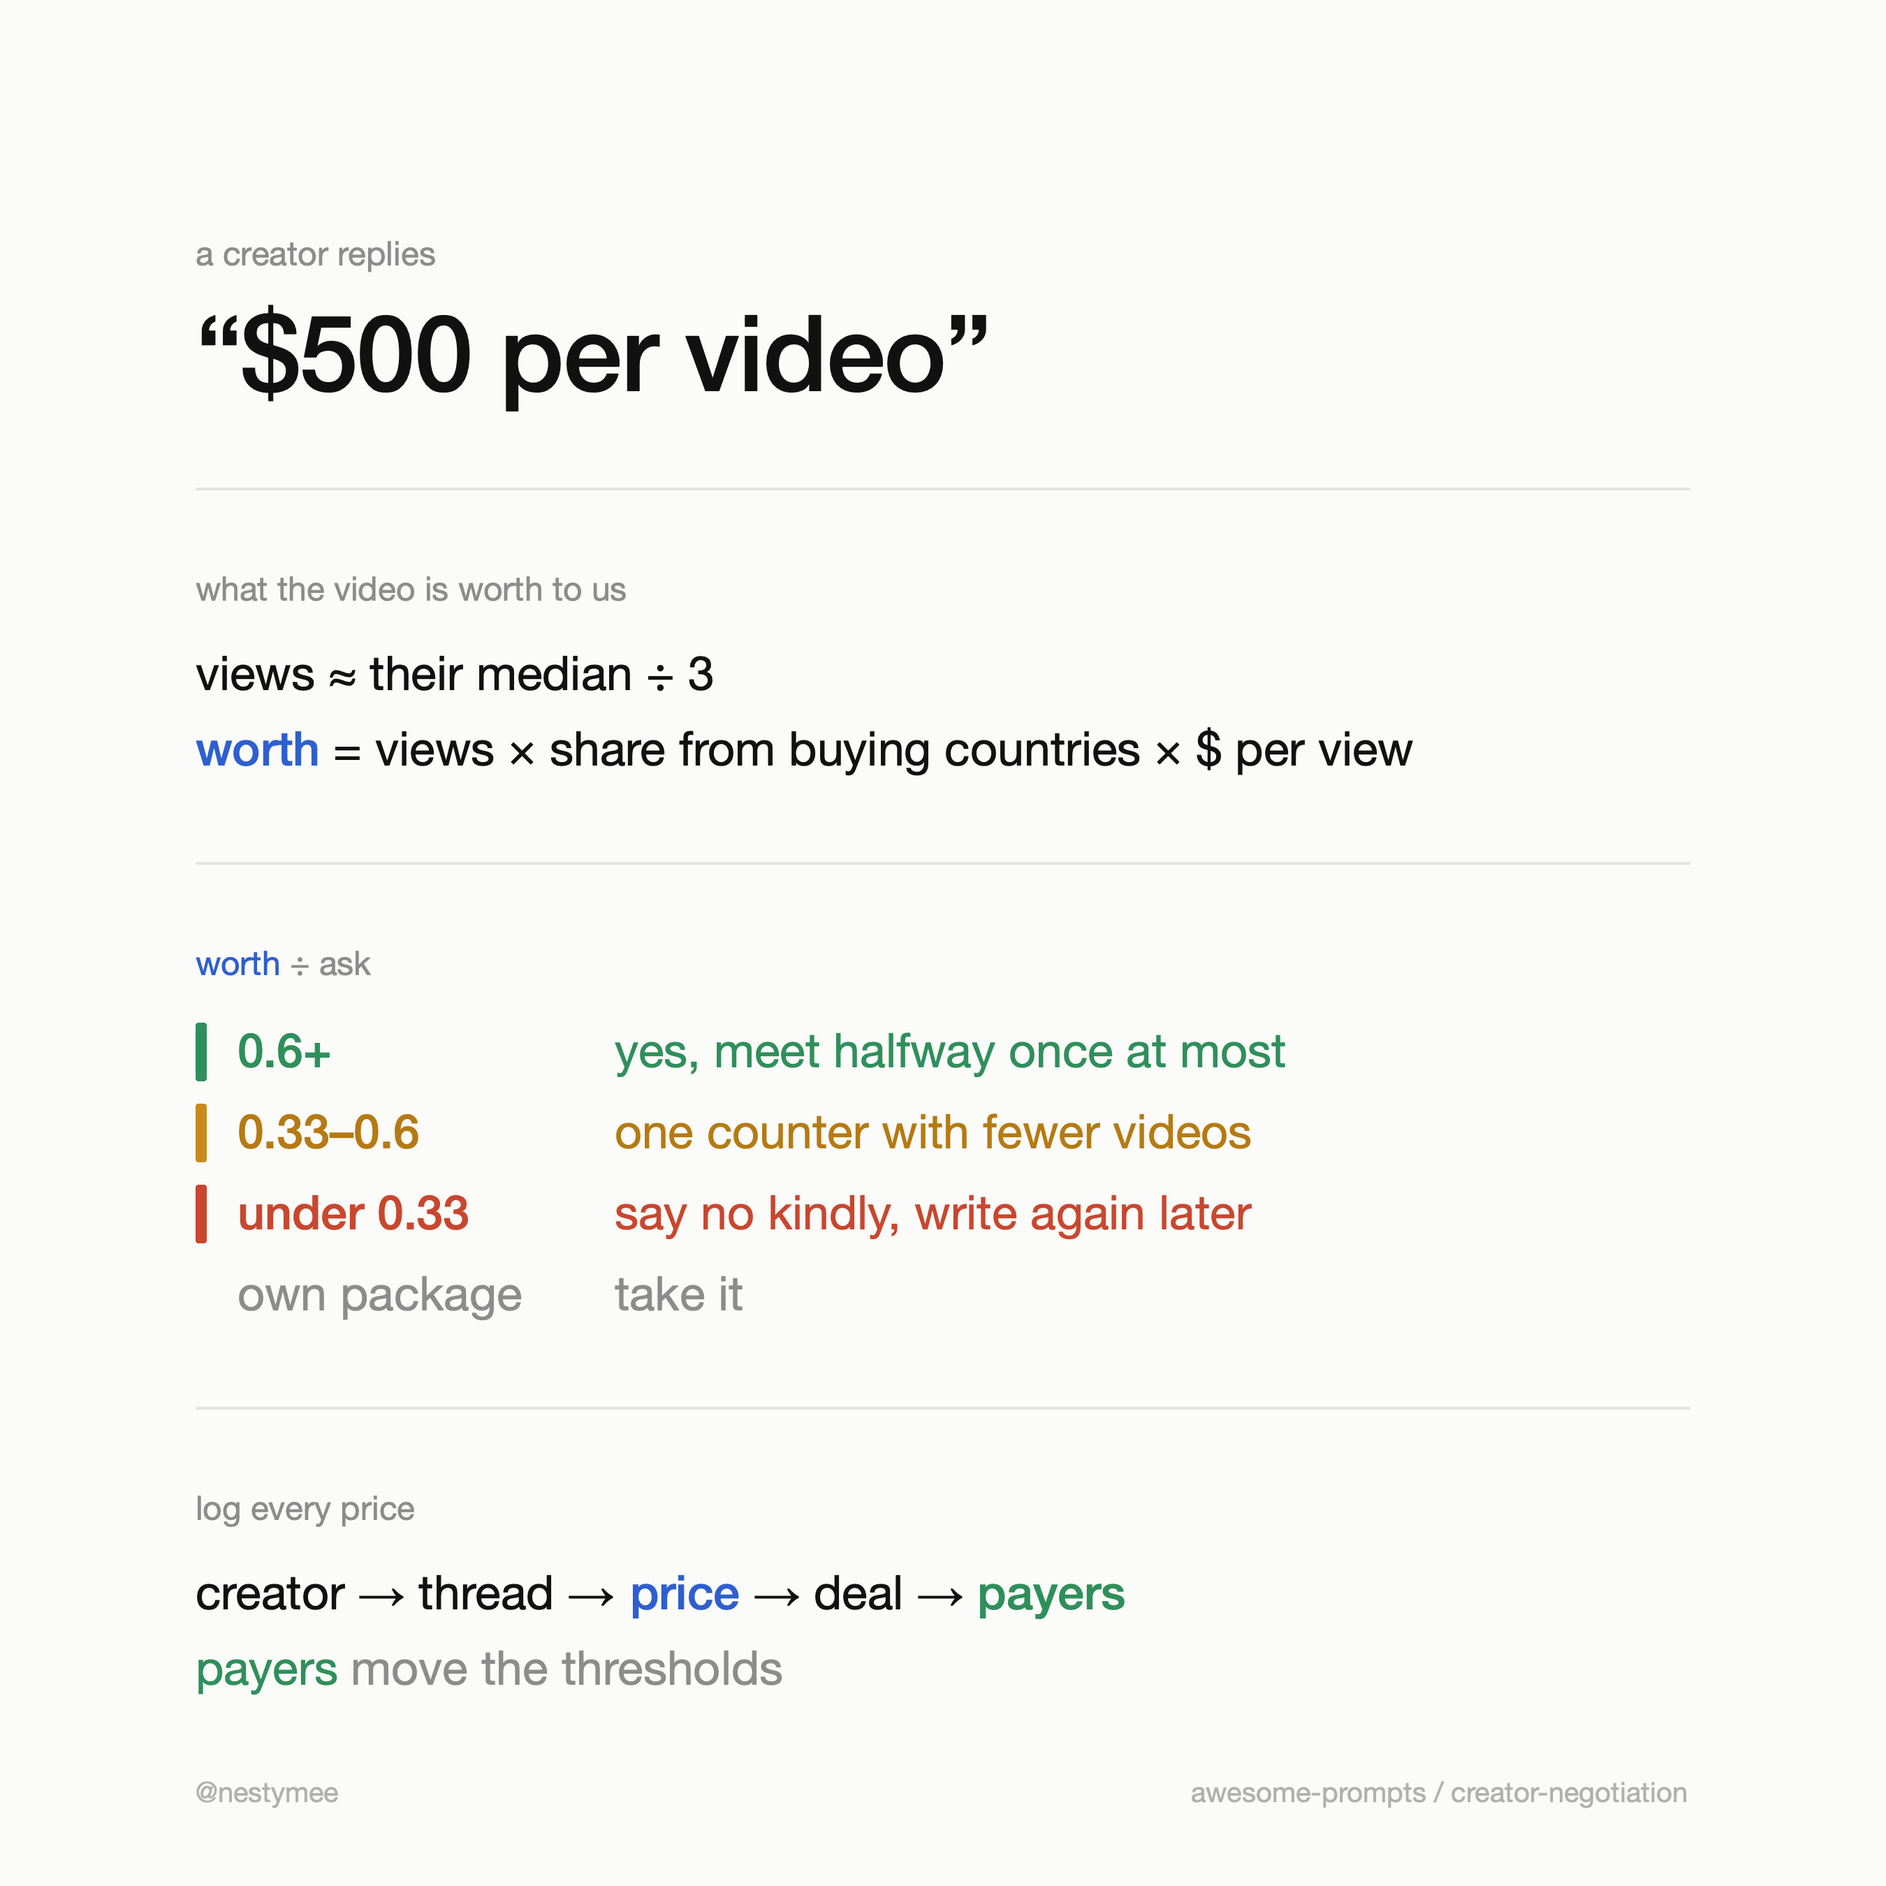
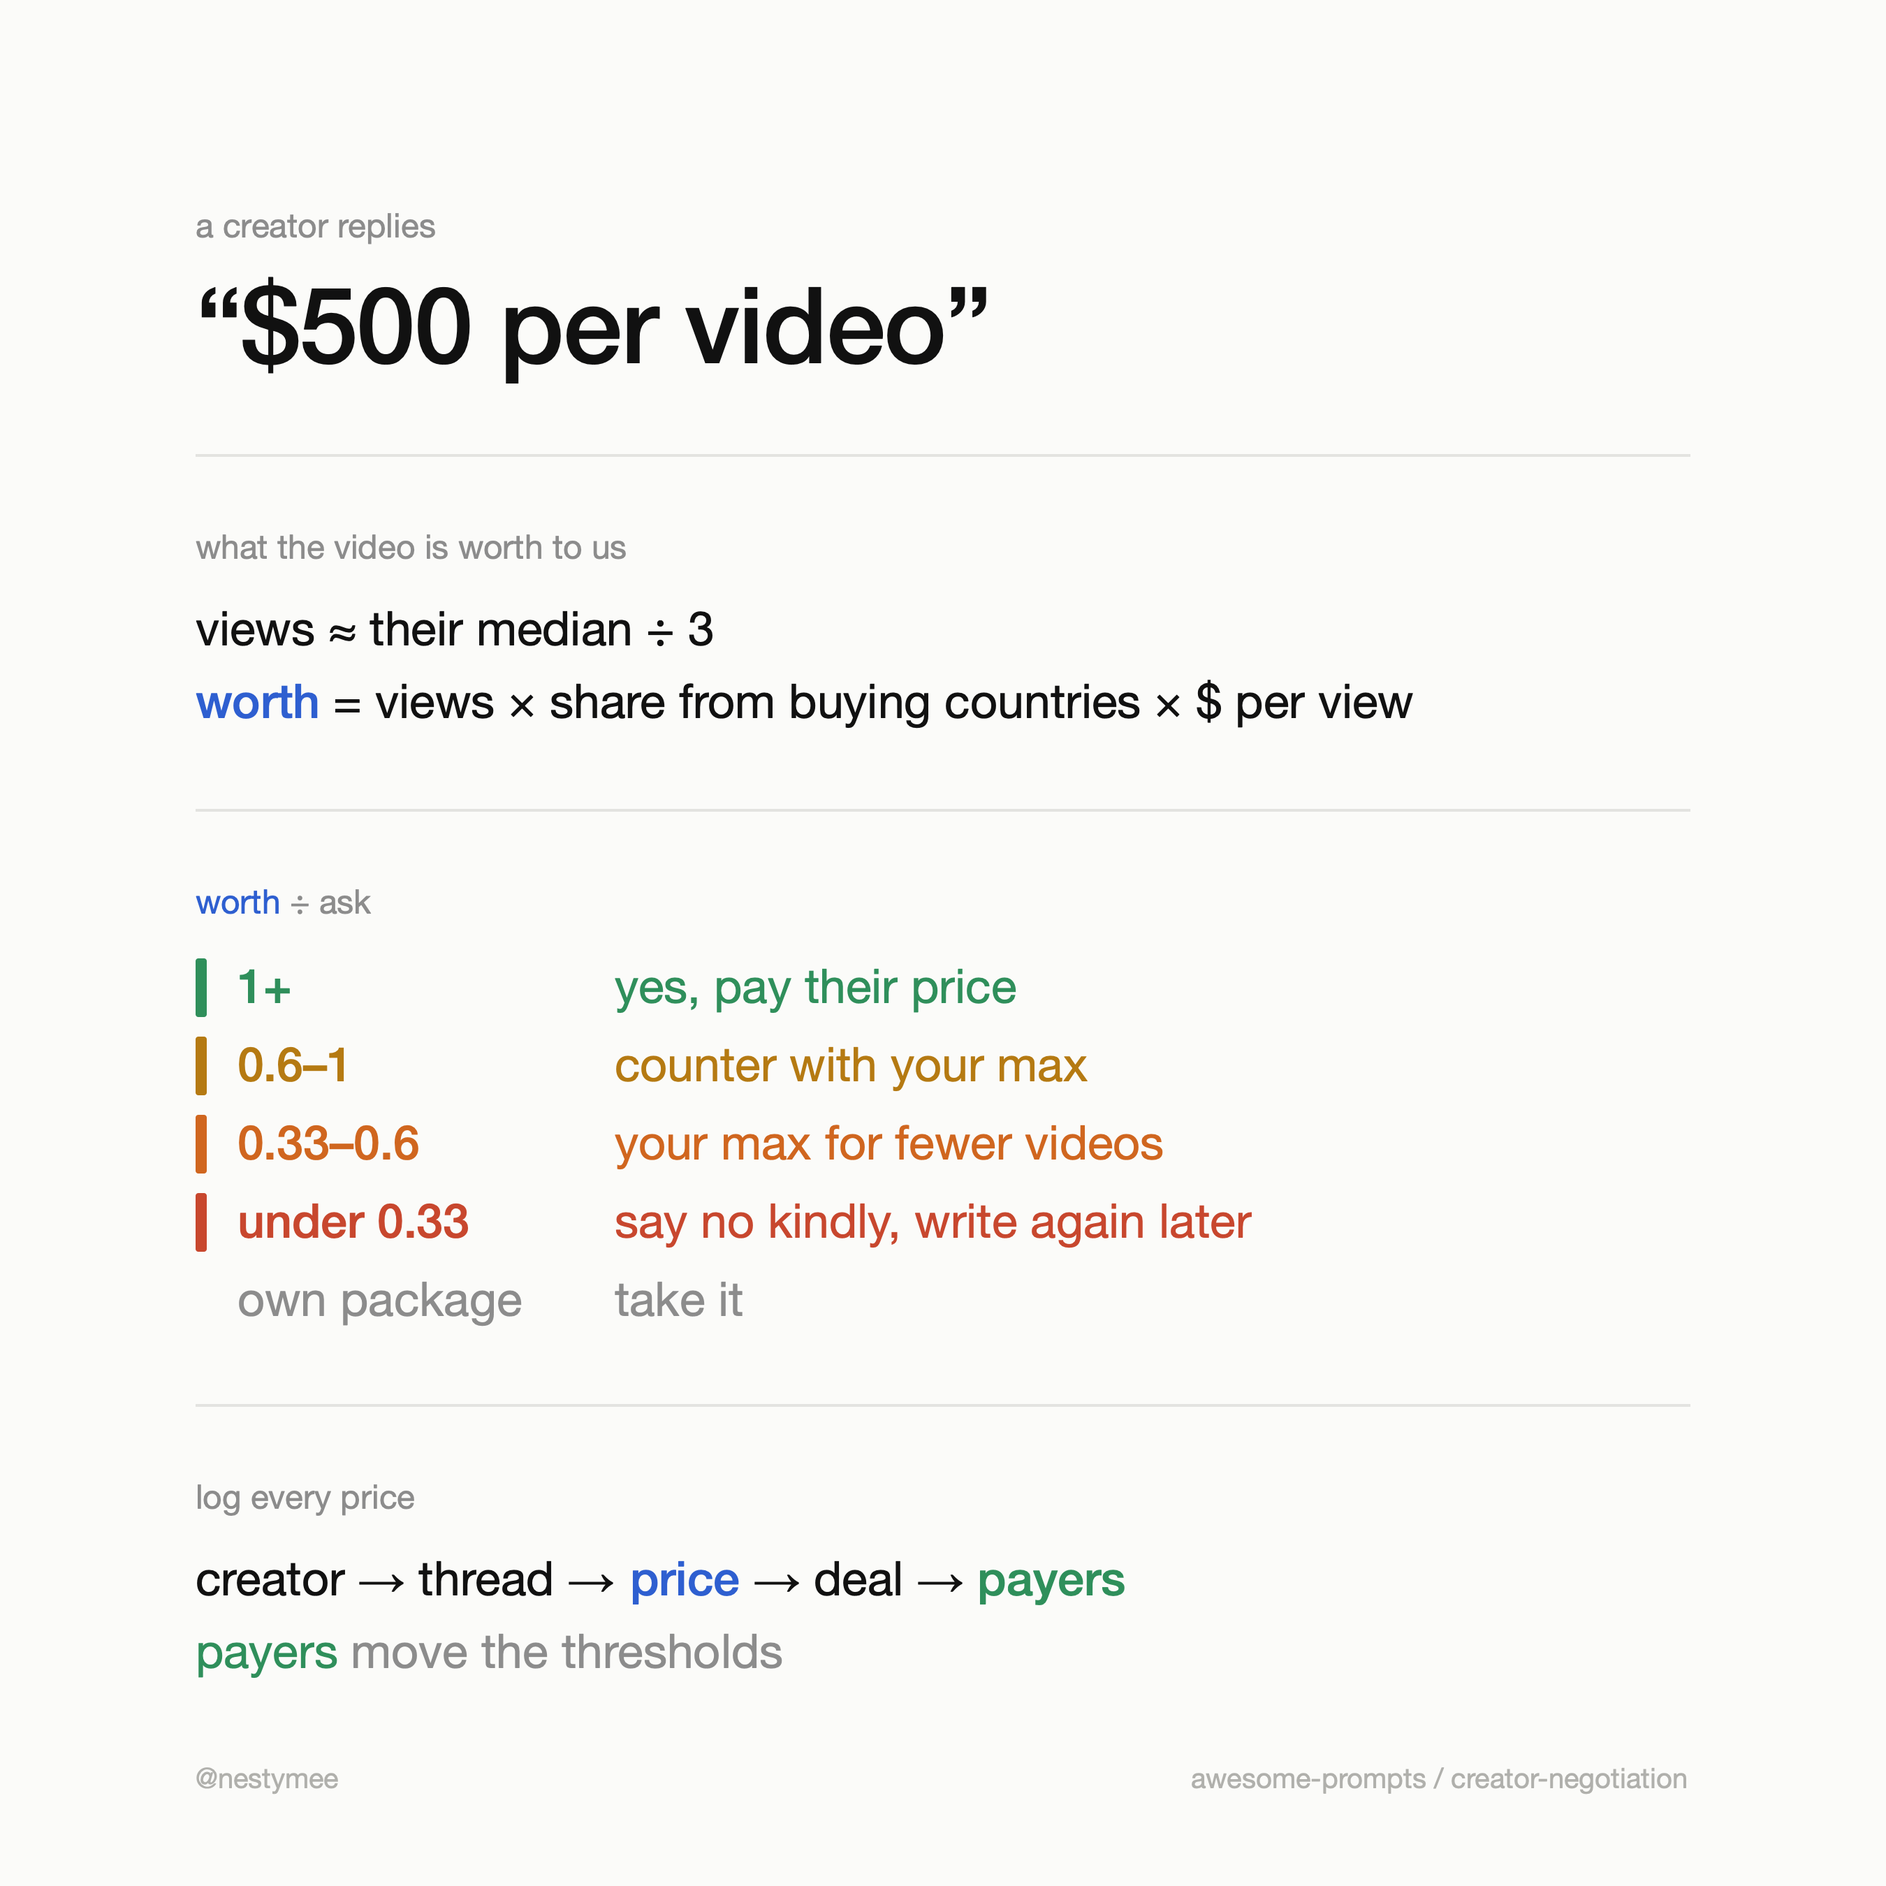
creator-negotiation: yes only at 1+, counter at your ceiling below that
The 0.6 threshold came from offer ÷ ask in our log (creators took or
answered close to offers at 60%+ of their ask), but the table applied it to
worth ÷ ask and said "accept" at 0.6–1, which meant paying above your own
ceiling. Now: 1+ pay their price; 0.6–1 offer your ceiling as the one
honest number and say yes only to counters at or under it; 0.33–0.6 your
ceiling for less work; under 0.33 decline. Updated the worked example,
message 3 ("say yes to their counter"), the evidence line, the README
entry and the diagram.

diff --git a/README.md b/README.md
@@ -24,7 +24,7 @@ Prompts and agent skills I actually use, with the rules that make them work.
 
 - [Influencer Outreach](skills/influencer-outreach/SKILL.md) — the paid half of creator growth: scrape creators by niche hashtags, verify their **real** reach (pinned videos inflate scraped medians up to 28×, and the views/followers ratio does not catch it), score who to write first by *expected views per dollar × will they reply × will they accept*, cold-email in the creator's language asking for their rate in the first message, then contract and pay for views that actually happened (base upfront + per-25k bonus, counted on a locked day). Includes the two-species model that decides everything — production sellers reply 7× more often but sell off a $150–1000 rate card, reach creators barely answer but find view-based pricing fair — the CRM schema, and a human-only send gate enforced in code.
 
-- [Creator Negotiation](skills/creator-negotiation/SKILL.md) — what to do after a creator replies "my rate is $X", built on a logged multi-market negotiation run plus creator-side research, with no tactics at all. Before reading their number, work out what the video is worth to you: a sponsored video gets about a third of the creator's unpinned median, only views from countries where your product sells count (ask for the audience screenshot before paying), times what a view is worth to you. Then divide by their ask: 0.6+ means yes, meet halfway once at most; 0.33–0.6 means one counter that trades scope (one test video, no cross-post) instead of shaving price; under 0.33 means a kind no with the door open. The rules that make it work: ask for a single and a series price in the first email and take their own package price when they give one (it closed almost every time at the best per-video rate), stop after two rounds, answer in their language and the currency they used and confirm what "$" means in LatAm, never slip in paid extras (link in bio, usage rights, whitelisting), lead with a guaranteed base and pay upfront, and one check-in after silence, then close. Ships message skeletons for 11 situations in English and Spanish, an evidence file with sourced research and where sources disagree, and a SQLite CRM schema that logs every price as a row so the thresholds recalibrate on your own data.
+- [Creator Negotiation](skills/creator-negotiation/SKILL.md) — what to do after a creator replies "my rate is $X", built on a logged multi-market negotiation run plus creator-side research, with no tactics at all. Before reading their number, work out what the video is worth to you: a sponsored video gets about a third of the creator's unpinned median, only views from countries where your product sells count (ask for the audience screenshot before paying), times what a view is worth to you. Then divide by their ask: 1+ means yes, pay their price; 0.6–1 means one counter at your ceiling, which creators usually take or answer close to; 0.33–0.6 means your ceiling for less work (one test video, no cross-post) instead of shaving price; under 0.33 means a kind no with the door open. The rules that make it work: ask for a single and a series price in the first email and take their own package price when they give one (it closed almost every time at the best per-video rate), stop after two rounds, answer in their language and the currency they used and confirm what "$" means in LatAm, never slip in paid extras (link in bio, usage rights, whitelisting), lead with a guaranteed base and pay upfront, and one check-in after silence, then close. Ships message skeletons for 11 situations in English and Spanish, an evidence file with sourced research and where sources disagree, and a SQLite CRM schema that logs every price as a row so the thresholds recalibrate on your own data.
 
 - [Stop Slop](skills/stop-slop/SKILL.md) — rewrite any English text so it stops reading like an LLM wrote it: posts, emails, cover letters, product copy, READMEs, abstracts, essays, fiction, toasts. Instead of a banned-word list it works from the eight causes behind the patterns (most-probable phrasing, rater-pleasing structure, hedging to avoid being wrong, no stake in what matters, absorbed genre templates, sentence-by-sentence generation, repetition avoidance, the assistant persona), because deleting a surface pattern just grows a sibling: ban "delve" and you get "dig into", ban em dashes and you get a colon in every line. The rules that make it work: rewrite from the meaning instead of line-editing (line edits keep the skeleton), never invent facts to sound human (vague claims become `[placeholders]` the text survives without), density is the tell rather than presence, and a don't-overcorrect list against staccato fragments and fake typos. Ships a 45-pattern catalog with cause, fix and before/after pairs, a word list with plain replacements, 16 whole-text rewrites across genres, and a voice-matching mode: give it a sample of someone's writing and it builds a voice profile and writes to it without borrowing the sample's content.
 

diff --git a/skills/creator-negotiation/SKILL.md b/skills/creator-negotiation/SKILL.md
@@ -33,9 +33,9 @@ Convert a package to a per-video price, then take **ratio = your ceiling ÷ thei
 
 | Ratio | What happened in our log | Do |
 |---|---|---|
-| ≥ 1 | Nearly always closed | Accept. Don't haggle a price you can afford; pay fast instead. |
-| ~0.6–1 | Mostly closed, often after one halfway step (they ask 100, you offer 60, they come back at 80, you say yes) | Accept, or make one counter and meet halfway once if they come back. |
-| ~0.33–0.6 | Closed when we cut scope; stalled when we only cut the price | One counter that trades scope: one test video instead of three, no cross-post, a shorter series. |
+| ≥ 1 | Nearly always closed | Accept their price. Don't haggle a price you can afford; pay fast instead. |
+| ~0.6–1 | Mostly closed: when our offer was at least ~60% of their ask, creators took it or came back with a number close to it | Offer your ceiling as your one honest number. If they come back at or under your ceiling, say yes. Above it, trade scope (drop the cross-post) or close. Never pay above your ceiling. |
+| ~0.33–0.6 | Closed when we cut scope; stalled when we only cut the price | One counter at your ceiling that also trades scope: one test video instead of three, no cross-post, a shorter series. |
 | < 0.33 | Almost never closed. The one exception was a creator new to paid deals who took 25% of her ask as a single "first test". | Don't counter. Decline warmly and leave the door open. |
 
 Two cases skip the table:
@@ -107,7 +107,7 @@ Both assume you'll pay at most $20 per 1,000 views from countries where your pro
 
 **"My rate is $500 per TikTok, or $1,300 for a series of three."** Unpinned median 9,000, audience 70% in countries where you sell. Expected views ≈ 9,000 ÷ 3 = 3,000, of which ~2,100 count. Ceiling ≈ $42 per video. Their package works out to about $430 per video, a ratio of 0.1. Decline warmly (message 6). A token counter here only adds a round and usually ends in the same kind no.
 
-**"$300 per video, $800 for three."** Unpinned median 30k, audience 90% in countries where you sell. Expected views ≈ 10k, ~9k count. Ceiling ≈ $180. Ratio = 0.6 against the single-video price. Counter once, a little under the ceiling, and offer one test video instead of the series (message 2). If they come back above the ceiling, meet them at the ceiling by giving up scope, for example by dropping the cross-post. That's how deals in this band closed for us.
+**"$300 per video, $800 for three."** Unpinned median 30k, audience 90% in countries where you sell. Expected views ≈ 10k, ~9k count. Ceiling ≈ $180. Ratio = 0.6, the edge between the two counter rows. Offer $180, your ceiling, for one test video instead of the series (message 2). If they come back at $220, don't split the difference: keep $180 and give up scope, for example the cross-post, or close kindly. That's how deals in this band closed for us.
 
 ## Log every price
 
@@ -118,6 +118,6 @@ The ratio table, the series discount and the round limit are only as good as the
 When the user brings a creator reply, return:
 
 1. The three numbers (expected views, audience note, your ceiling) and the ratio, with any assumption marked.
-2. A recommendation in one line: accept, counter (with the scope trade), meet halfway, decline, or close.
+2. A recommendation in one line: accept, counter at your ceiling, counter at your ceiling with a scope trade, decline, or close.
 3. The draft reply in the creator's language, plus an English or user-language translation if the user doesn't read it.
 4. Anything to check before sending: currency, audience screenshot, payment rails, a promise in the draft that must be true first (e.g. "payment sent").

diff --git a/skills/creator-negotiation/references/messages.md b/skills/creator-negotiation/references/messages.md
@@ -8,7 +8,7 @@ Sign with a real first name and one line about the product, e.g. `Alex / yourapp
 
 1. Accept their package price
 2. Counter by trading scope
-3. Meet halfway, once
+3. Say yes to their counter
 4. Confirm the currency
 5. Ask for the audience screenshot
 6. Warm decline (the gap is too big)
@@ -40,17 +40,19 @@ Use when your ceiling is roughly a third to two thirds of their per-video ask. O
 **ES**
 > ¡Hola {nombre}! Gracias, me encantó cómo lo planteas para tu audiencia. Te soy sincera: el paquete ahora mismo es más de lo que podemos. ¿Te animarías a empezar con un video? Podríamos pagar {precio} por un TikTok, por adelantado por PayPal. Si sale bien, nos encantaría hacer los otros dos. Y si no te encaja, no pasa nada.
 
+In the 0.6–1 band, send the same message with your ceiling as the price and no scope change.
+
 Scope levers, in the order to give them up: cross-post to Reels/Shorts → number of videos (test one first) → series length. Leave creative freedom and upfront payment alone; they're what makes a lower number fair.
 
-## 3. Meet halfway, once
+## 3. Say yes to their counter
 
-Use when they countered your counter and the midpoint is within your ceiling. Say yes clearly; don't counter the counter.
+Use when they answered your offer with a number at or under your ceiling. Say yes clearly; don't counter the counter.
 
 **EN**
-> Deal, {price} works for us. Thank you for meeting me halfway! The agreement is attached. To confirm, just reply "I agree", and send your PayPal email so the first payment goes out today.
+> Deal, {price} works for us. Thank you for working with our budget! The agreement is attached. To confirm, just reply "I agree", and send your PayPal email so the first payment goes out today.
 
 **ES**
-> ¡Trato hecho, {precio} nos funciona! Gracias por acercarte. Te adjunto el acuerdo: para confirmar, responde «de acuerdo» y mándame tu correo de PayPal, y el primer pago sale hoy.
+> ¡Trato hecho, {precio} nos funciona! Gracias por adaptarte a nuestro presupuesto. Te adjunto el acuerdo: para confirmar, responde «de acuerdo» y mándame tu correo de PayPal, y el primer pago sale hoy.
 
 ## 4. Confirm the currency
 

diff --git a/skills/creator-negotiation/references/evidence.md b/skills/creator-negotiation/references/evidence.md
@@ -14,7 +14,7 @@ A small consumer app (two founders) paying micro-creators a fixed fee per short 
 **Quotes and outcomes**
 - Of creators who named a price, roughly a quarter ended in a signed deal.
 - Most closed deals came from the lower half of the quotes we received. At the high end, deals closed only as a single "first test" video.
-- When our ceiling was at least ~60% of the creator's per-video ask, deals mostly closed. Under ~33%, almost none did. In between, scope trades (one test video, no cross-post) closed; pure price cuts stalled.
+- When our offer (in practice, our ceiling) was at least ~60% of the creator's per-video ask, deals mostly closed: the creator accepted it or came back close to it. Under ~33%, almost none did. In between, scope trades (one test video, no cross-post) closed; pure price cuts stalled.
 - Creators offered series discounts of typically 10–35% per video versus their single-video rate. Accepting the creator's own package price closed in all cases but one (the exception went silent before signing) and gave the lowest per-video prices in the whole log.
 - Every closed deal settled within two rounds of counters.
 - Agency, talent-manager and UGC-studio rate sheets (3–10× direct quotes, +30% posting, +30% usage rights) never closed.
